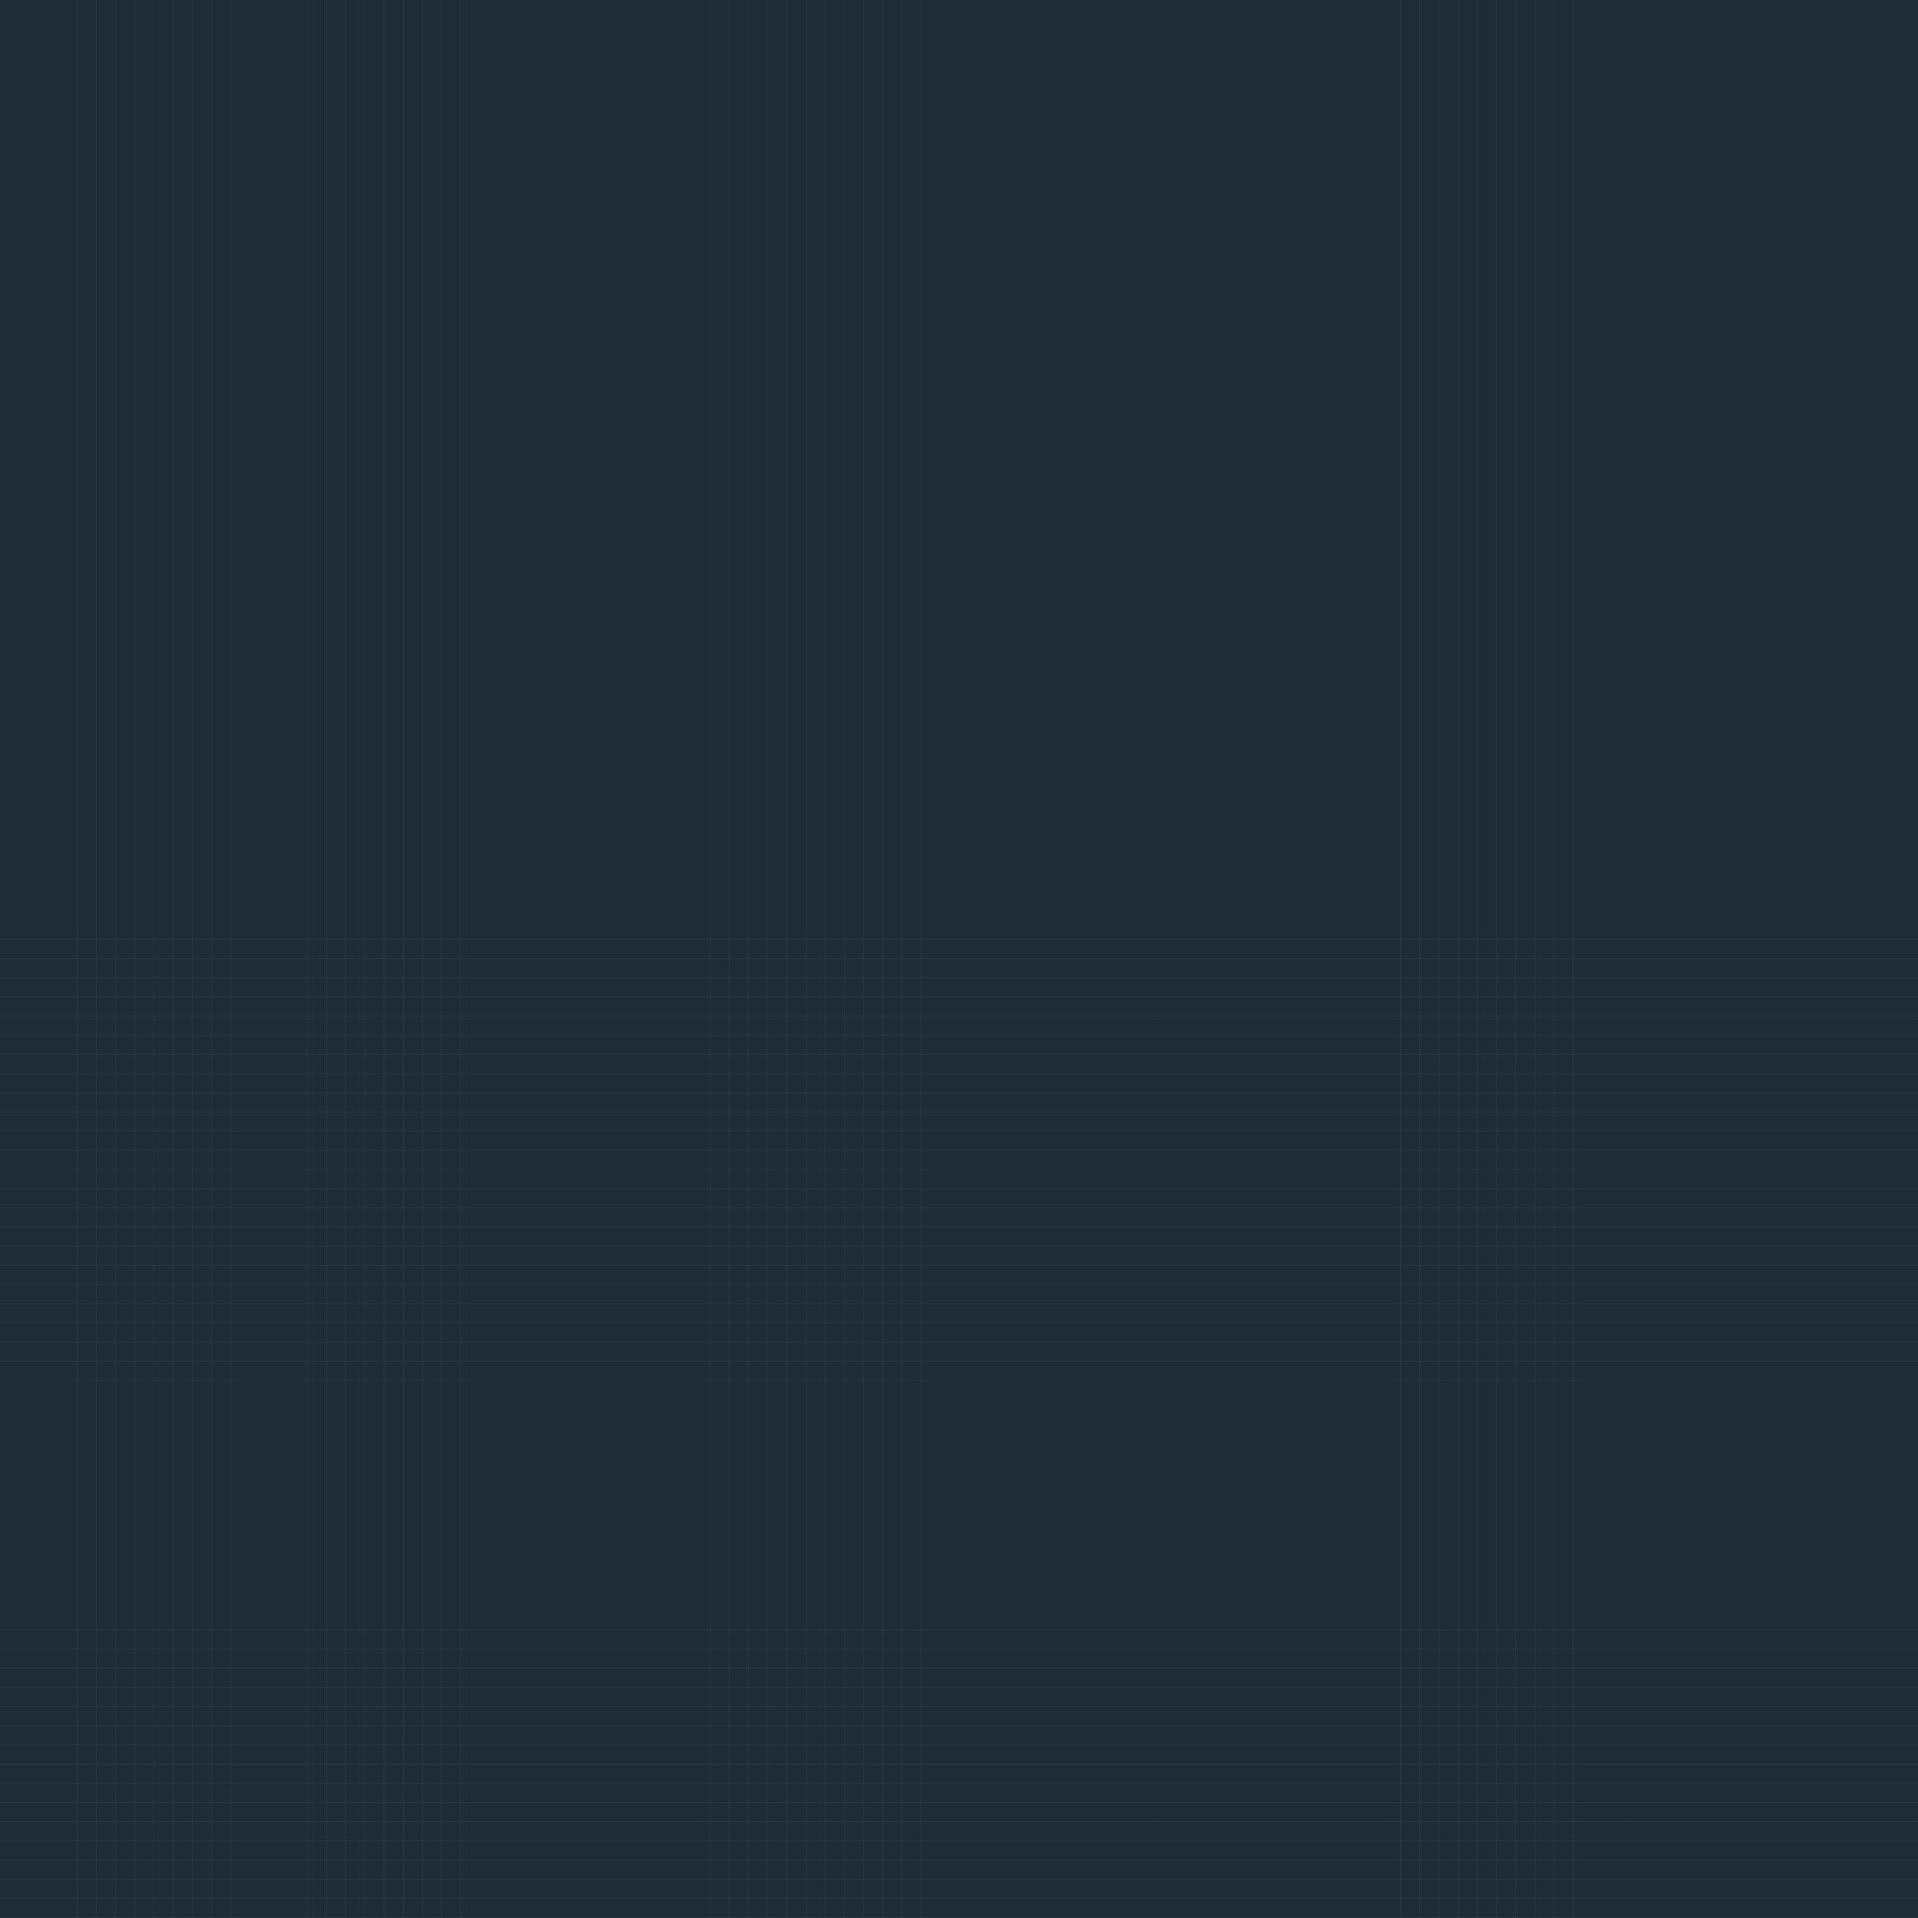
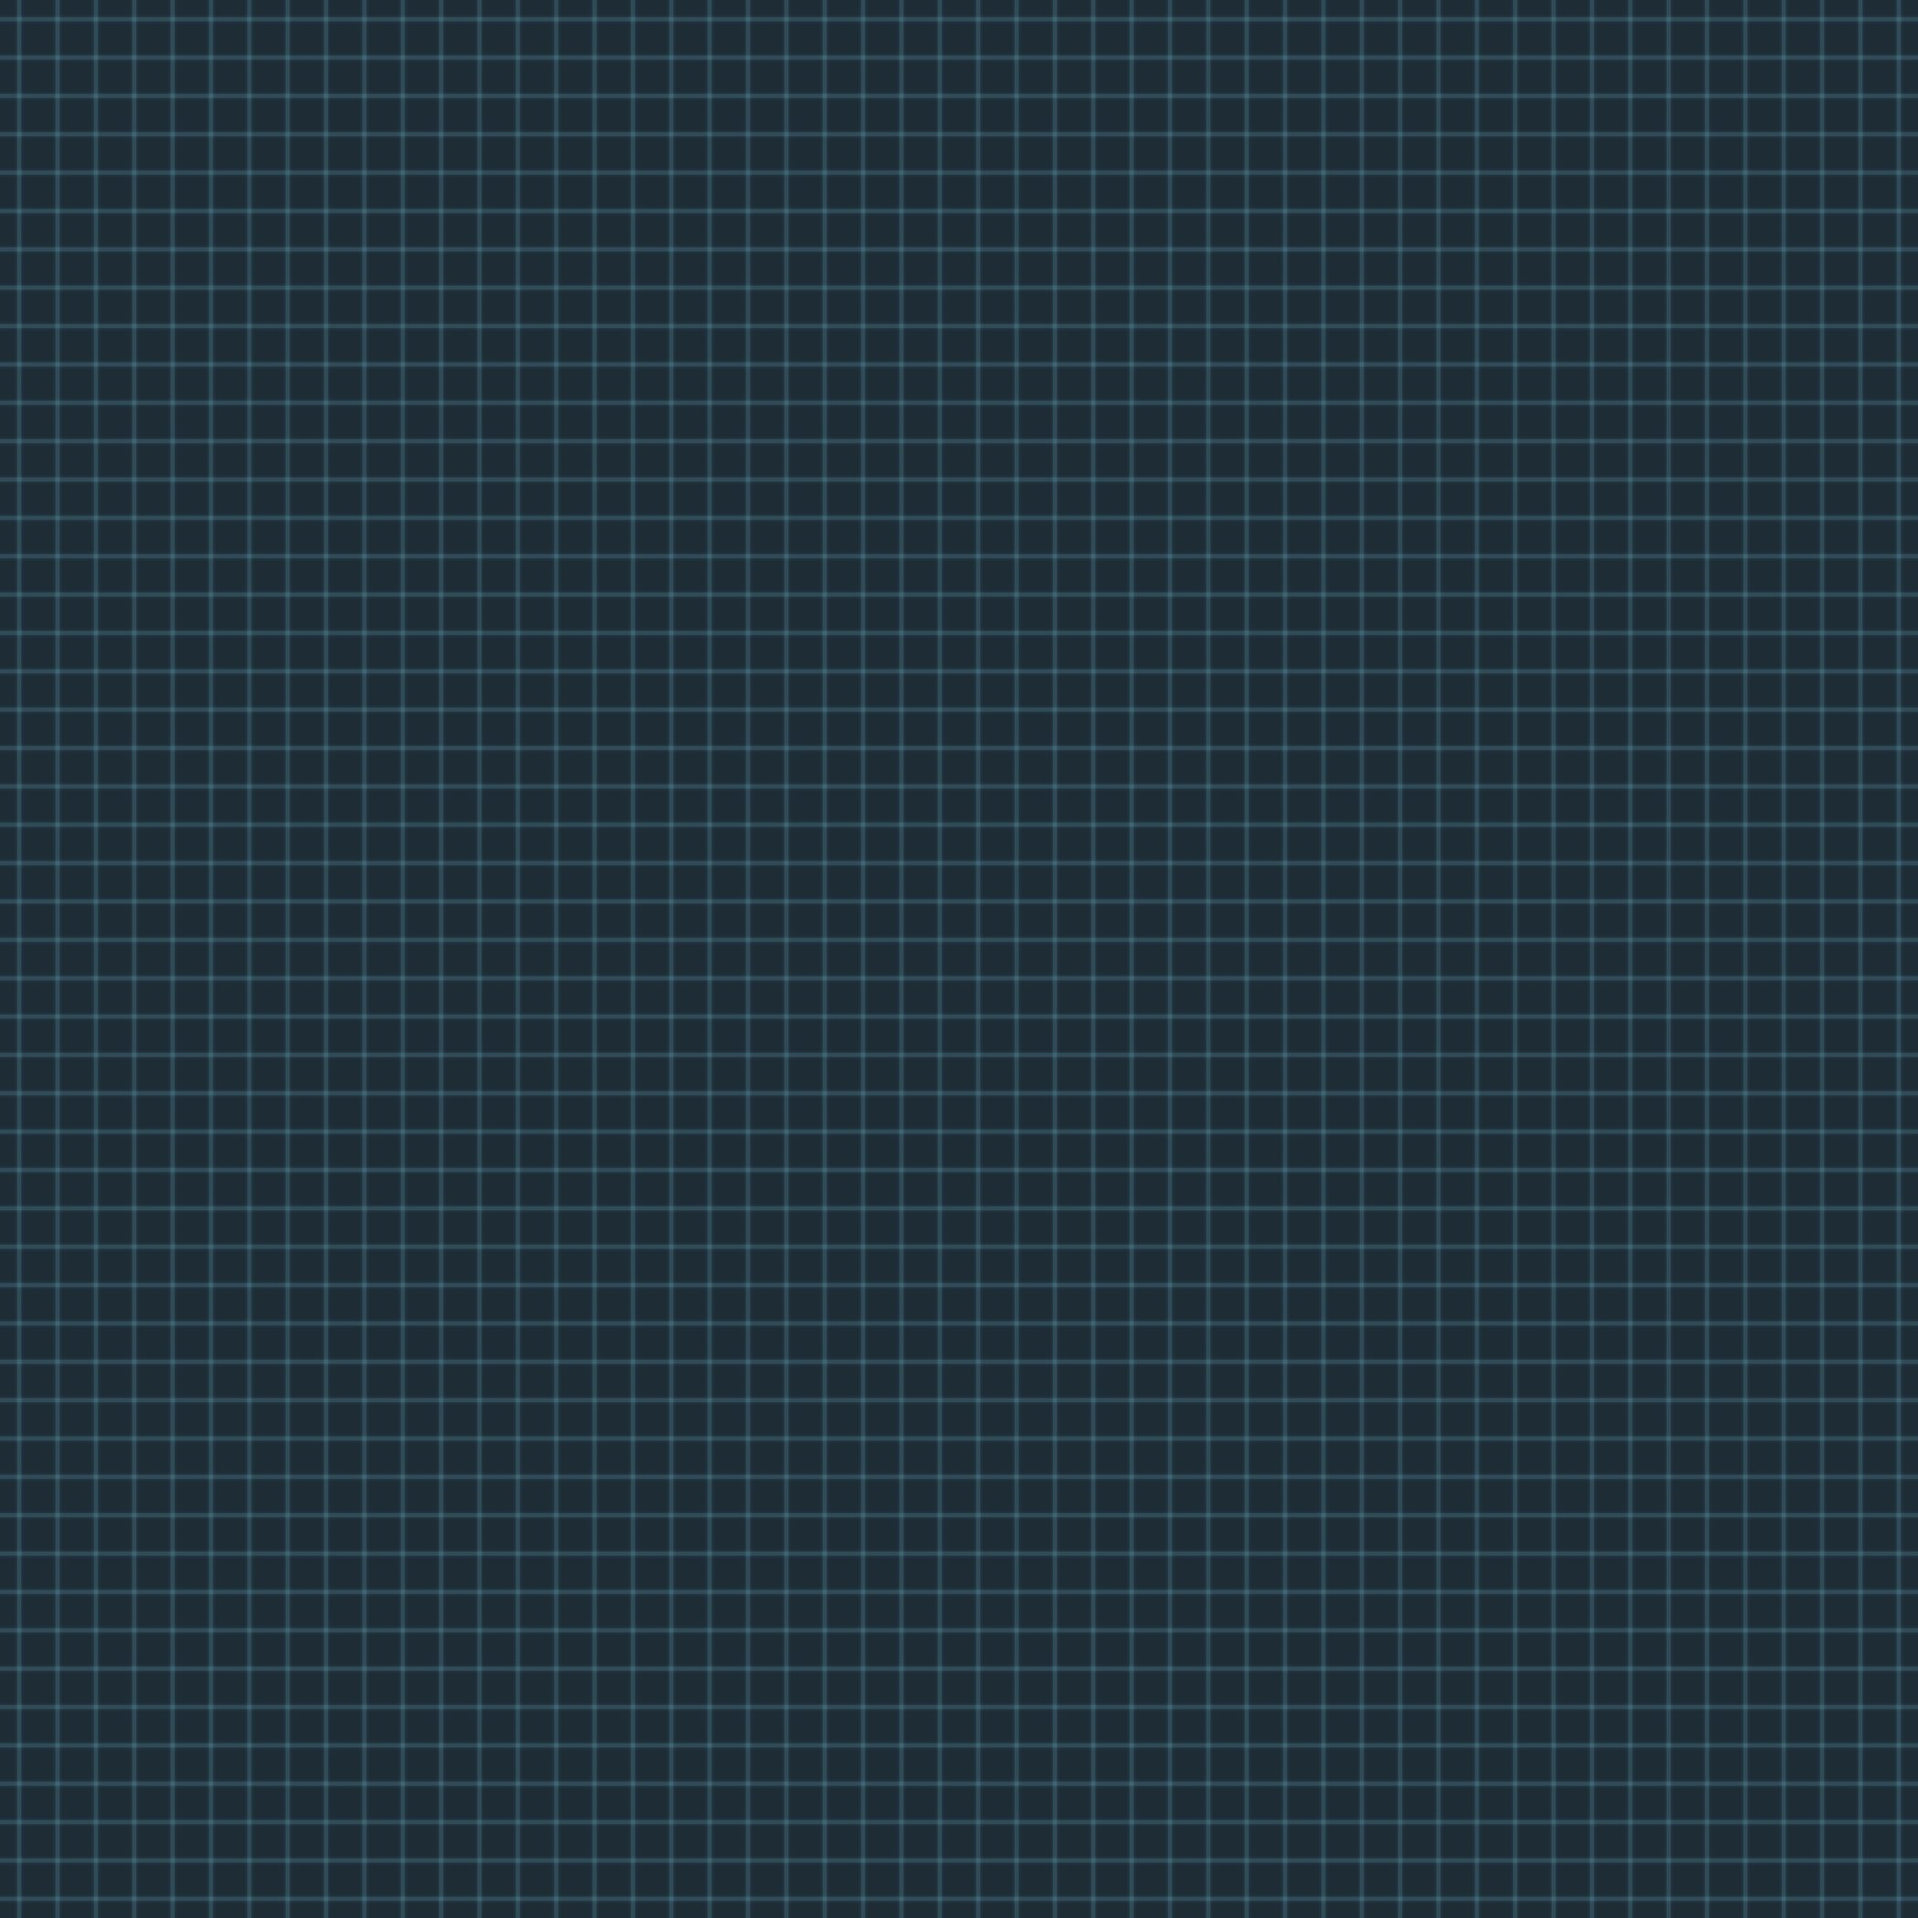
Make the sci-fi grid an even one, and close the menu on turning editing on
The grid was neither even nor, in one direction, there. A one pixel rule has
to survive two things that eat thin lines: the bake halves everything, so a
rule lands on one row and misses the next, and jpeg rings around a hard edge
and drops it between blocks. Some rules came through at half strength and
the horizontals went altogether.

So the rule is six pixels rather than one, three in the bake, which is a
feature a codec keeps; the spacing is twice as wide, so there is less of it
to keep; and it carries a glow either side, which puts most of its weight at
low frequencies where jpeg is at its best and hides the ringing that is
left. Checked at every zoom the board reaches, 0.09 through 2, and at two
offsets: even in both directions at all of them.

It stays a jpeg like every other surface. It was briefly a png, which fixed
the grid and made sci-fi the one board that worked differently from the
other four for no reason a reader could see.

And turning editing on now closes the menu. Turning it off does not: on, the
board is what you wanted and the panel is in the way of it; off, you are
more often on your way to something else in there. Five suites drove the old
behaviour and now drive this one, with both halves of the rule checked.

tsc, the build, eleven browser suites and three api suites pass.

Changed region(s): [[0.0, 0.0, 1.0, 1.0]]

diff --git a/boards/src/App.tsx b/boards/src/App.tsx
@@ -544,7 +544,12 @@ export default function App() {
           }}
           openReports={openReports}
           onToggleEdit={() => {
-            setEditMode((on) => !on);
+            const turningOn = !editMode;
+            setEditMode(turningOn);
+            // Turning it on, the board is what you wanted; the panel is in
+            // the way of it. Turning it off, you are more often on your way
+            // to something else in here, so it stays where it is.
+            if (turningOn) setPanelOpen(false);
             setSelectedId(null);
             setInspectingId(null);
           }}
